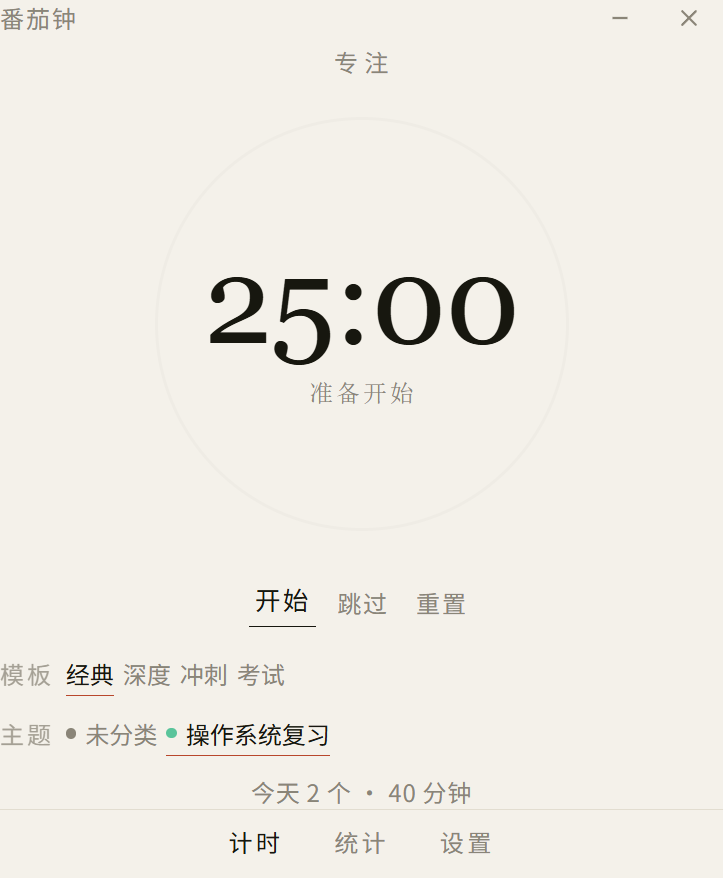
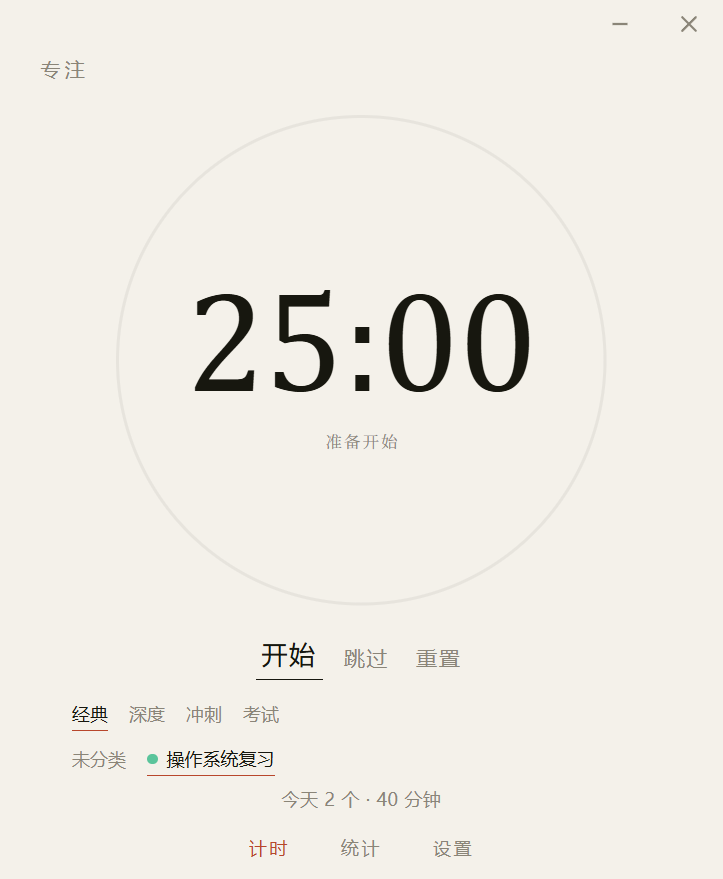
fix(ui): 纸感真机四个毛病（左右内边距、底轨 6%、标题栏压到 32px、垂直节奏收紧）+ 修 tokens.css 变量写在 :root 外的失效

diff --git a/src/renderer/styles/themes/paper.css b/src/renderer/styles/themes/paper.css
@@ -27,8 +27,9 @@
   --break: #4f7a5b;
   --warn: #8a6a1f;
   --on-phase: #f7f4ee;
-  /* 底轨：2% 墨色。淡到几乎看不见，但得在——0% 时环不能整个消失 */
-  --track: color-mix(in srgb, var(--ink) 2%, transparent);
+  /* 底轨：6% 墨色。2% 太淡了，浅底上等于没有——0% 时屏幕上只剩一个数字，
+     环整个消失，看着像坏了。6% 仍然极淡，但"环在那儿"看得出来。 */
+  --track: color-mix(in srgb, var(--ink) 6%, transparent);
   --hover: color-mix(in srgb, var(--ink) 6%, transparent);
   --active: color-mix(in srgb, var(--ink) 9%, transparent);
   /* 纸感没有光晕，底就是底 */
@@ -40,9 +41,15 @@
   --r-lg: 2px;
   --r-pill: 2px;
   --ring-stroke: 2px; /* 极细弧 */
+  /* 标题栏压到 32px：纸感不需要一条系统标题栏 */
+  --titlebar-h: 32px;
 
-  /* ---------- 字体：数字用衬线 ---------- */
-  --font-num: Georgia, 'Songti SC', 'SimSun', serif;
+  /* ---------- 字体：数字用衬线 ----------
+     用 Cambria 而不是 Georgia：Georgia 的数字默认是**旧式数字**（2 和 5 是 x 字高，
+     0 是全高），秒数一变整个数字就上下跳，跟"跳秒不抖"的要求冲突。
+     Cambria 默认就是等高数字，而且本来就是为屏幕设计的衬线体。 */
+  --font-num: Cambria, Georgia, 'Songti SC', serif;
+  --font-num-weight: 400;
 
   /* ---------- 效果：一律没有 ---------- */
   --shadow-card: none;
@@ -53,7 +60,62 @@
 
 /* ================= 结构覆盖：纸感的形态 ================= */
 
-/* 阶段标签：不靠颜色强调，靠字距 */
+/* 标题栏：去掉"番茄钟"三个字，只留拖拽区和最小化/关闭。
+   "这是番茄钟"用户不可能不知道，而下面居中的"专注"又在说阶段——重复。 */
+:root[data-theme='paper'] .titlebar__title {
+  display: none;
+}
+
+/* 那条 1px 分隔线去掉，让内容和导航连成一片纸 */
+:root[data-theme='paper'] .nav {
+  border-top: none;
+}
+
+/* 阶段标签：靠左，和下面模板/主题两行对齐成一条竖线 */
+:root[data-theme='paper'] .phase-label {
+  align-self: flex-start;
+  margin: 2px 0 8px;
+}
+
+/* 「模板」「主题」两个前缀：纸感里是多余的。
+   内容本身（经典/深度/冲刺、未分类/操作系统复习）已经看得出是两行不同的东西，
+   加个前缀反而像表单。先去掉，分不清再加回来。 */
+:root[data-theme='paper'] .presets__label,
+:root[data-theme='paper'] .topics__label {
+  display: none;
+}
+
+/* 主题行的小圆点：纸感的语言是"线"不是"点"。
+   选中项已经有砖红下划线，只有它保留一个点。 */
+:root[data-theme='paper'] .topics__dot {
+  display: none;
+}
+
+:root[data-theme='paper'] .topics__chip--on .topics__dot {
+  display: inline-block;
+}
+
+/* ---------- 垂直节奏 ----------
+   环下沿到按钮原来有 90px，中间空一块，环显得偏上。
+   现在：环按 --ring-gap 贴住这一格，下面那组（按钮 + 模板 + 主题 + 状态）
+   自己收紧，整体更靠近底部，环更居中。 */
+:root[data-theme='paper'] .controls {
+  margin-top: 6px;
+}
+
+:root[data-theme='paper'] .presets {
+  margin: 12px 0 0;
+}
+
+:root[data-theme='paper'] .topics {
+  margin: 8px 0 0;
+}
+
+:root[data-theme='paper'] .timer__bottom .status {
+  padding-top: 8px;
+}
+
+/* 阶段标签：纸感不靠颜色强调，靠字距 */
 :root[data-theme='paper'] .phase-label {
   color: var(--ink-2);
   letter-spacing: 0.26em;
@@ -140,15 +202,22 @@
   letter-spacing: 0.14em;
 }
 
-/* 环里的时间：衬线体，字重正常，不要细得发虚 */
+/* 环里的时间：衬线体，等高数字（不能是旧式数字，秒数一变就上下跳） */
 :root[data-theme='paper'] .ring__time {
   font-weight: 400;
   letter-spacing: -0.01em;
+  font-variant-numeric: lining-nums tabular-nums;
 }
 
 /* 环里的状态小标签也用衬线，像排版里的注脚 */
 :root[data-theme='paper'] .ring__hint {
-  font-family: Georgia, 'Songti SC', 'SimSun', serif;
+  font-family: Cambria, Georgia, 'Songti SC', serif;
   letter-spacing: 0.12em;
   text-indent: 0.12em;
+}
+
+/* 文字标签之间要多留一点气：胶囊去掉边框之后 6px 太挤 */
+:root[data-theme='paper'] .presets__inner,
+:root[data-theme='paper'] .topics__inner {
+  gap: 14px;
 }

diff --git a/src/renderer/styles/tokens.css b/src/renderer/styles/tokens.css
@@ -14,41 +14,55 @@
  * 不许散进组件。组件里只准用变量。
  *
  * 规矩：组件里不许硬编码色值；需要新颜色先在主题文件里加变量再引用。
+ *
+ * 注意：这些变量必须写在 :root 里。写在规则外面是**无效声明**，浏览器直接忽略，
+ * 表现是"读出来是空的"，用 var() 的地方全部退回默认值——
+ * 踩过一次：--titlebar-h 掉了，标题栏高度变成内容高度，看着像没写样式。
  */
 
-/* ---- 间距 ---- */
---pad-x: 24px;
---titlebar-h: 44px;
+:root {
+  /* ---- 间距 ---- */
+  --pad-x: 24px;
+  --titlebar-h: 44px;
 
-/* ---- 字号 ---- */
---fs-time: 92px; /* 大数字（环里的时间，实际字号跟环一起缩） */
---fs-label: 13px;
---fs-body: 14px;
---fs-small: 12px;
---fs-tiny: 11px; /* 环内的状态小标签 */
+  /* ---- 字号 ---- */
+  --fs-time: 92px; /* 大数字（环里的时间，实际字号跟环一起缩） */
+  --fs-label: 13px;
+  --fs-body: 14px;
+  --fs-small: 12px;
+  --fs-tiny: 11px; /* 环内的状态小标签 */
 
-/* ---- 字体 ----
-   正文字体三套一样；**数字字体在主题里**（衬线 / 超细 / 系统粗体）。 */
---font-ui: system-ui, 'Segoe UI', 'Microsoft YaHei', sans-serif;
+  /* ---- 字体 ----
+     正文字体三套一样；**数字字体在主题里**（衬线 / 超细 / 系统粗体）。 */
+  --font-ui: system-ui, 'Segoe UI', 'Microsoft YaHei', sans-serif;
 
-/* ---- 动效 ---- */
---ease: cubic-bezier(0.4, 0, 0.2, 1);
---dur-fast: 150ms;
---dur-base: 200ms;
---dur-slow: 250ms;
+  /* ---- 动效 ---- */
+  --ease: cubic-bezier(0.4, 0, 0.2, 1);
+  --dur-fast: 150ms;
+  --dur-base: 200ms;
+  --dur-slow: 250ms;
 
-/* ---- 横向滚动提示（模板条/主题条装不下时右边渐隐） ---- */
---fade-w: 28px;
-/* 遮罩用的实色（只看 alpha，不是界面上的颜色） */
---mask-solid: #000;
+  /* ---- 横向滚动提示（模板条/主题条装不下时右边渐隐） ---- */
+  --fade-w: 28px;
+  /* 遮罩用的实色（只看 alpha，不是界面上的颜色） */
+  --mask-solid: #000;
 
-/* ---- 阶段色（跟主题无关：专注用 --accent，休息用 --break） ----
-   派生色在这里算一次，三个主题共用。
-   注意：这三条必须作用在 html 根元素上——var() 替换用的是"声明所在元素"上的值，
-   如果写在子元素上，底轨会永远按默认的专注红算。 */
---phase: var(--accent);
---phase-soft: color-mix(in srgb, var(--phase) 16%, transparent);
---phase-faint: color-mix(in srgb, var(--phase) 7%, transparent);
+  /* ---- 圆环 ----
+     --ring-max：环的最大直径
+     --ring-mx：环离左右边缘至少留多少
+     --ring-gap：环离上下至少留多少（主题可以调：纸感要"更居中"，霓虹要"更贴边"） */
+  --ring-max: 420px;
+  --ring-mx: 56px;
+  --ring-gap: 10px;
+
+  /* ---- 阶段色（跟主题无关：专注用 --accent，休息用 --break） ----
+     派生色在这里算一次，三个主题共用。
+     注意：这三条必须作用在 html 根元素上——var() 替换用的是"声明所在元素"上的值，
+     如果写在子元素上，底轨会永远按默认的专注红算。 */
+  --phase: var(--accent);
+  --phase-soft: color-mix(in srgb, var(--phase) 16%, transparent);
+  --phase-faint: color-mix(in srgb, var(--phase) 7%, transparent);
+}
 
 html[data-phase='focus'] {
   --phase: var(--accent);

diff --git a/src/renderer/pages/Timer.tsx b/src/renderer/pages/Timer.tsx
@@ -45,15 +45,19 @@ export function Timer(): React.JSX.Element {
   // 描边宽度跟主题走：纸感 2px 细弧、霓虹 10px、系统感 8px。
   // 环的半径要让开描边，所以主题一变这里就得跟着变。
   const ringStroke = useThemeNumber('--ring-stroke', 8)
+  // 环的尺寸规则也是主题的一部分（最大直径 / 左右留白 / 上下留白）
+  const ringMax = useThemeNumber('--ring-max', 420)
+  const ringMx = useThemeNumber('--ring-mx', 56)
+  const ringGap = useThemeNumber('--ring-gap', 10)
 
   /**
    * 圆环按可用空间缩放，不能写死。
    * 之前写死 320px，用户把窗口缩到 500×589 之后环把下面全顶出去了，
    * 模板条压到导航栏上、状态行被挤没 —— 那是我的锅。
    *
-   * 规则：min(420, 可用宽 - 56, 可用高 × 0.94)，最小 200。
-   * 0.94 是量出来的：这一格里除圆环没别的东西，留 6% 余量给呼吸，
-   * 之前用 0.78 是"怕压到底下的东西"的保守值，结构改过之后可以放开。
+   * 规则：min(最大直径, 可用宽 - 左右留白, 可用高 - 上下留白)，最小 200。
+   * 上下留白是主题变量 --ring-gap：环在窗口里要"居中"，
+   * 留白给得太少会顶到底下的按钮，太多环就缩了。
    */
   useEffect(() => {
     const el = ringAreaRef.current
@@ -61,14 +65,14 @@ export function Timer(): React.JSX.Element {
     const measure = (): void => {
       const w = el.clientWidth
       const h = el.clientHeight
-      const next = Math.max(200, Math.min(420, w - 56, h * 0.94))
+      const next = Math.max(200, Math.min(ringMax, w - ringMx, h - 2 * ringGap))
       setRingSize(Math.round(next))
     }
     measure()
     const ro = new ResizeObserver(measure)
     ro.observe(el)
     return () => ro.disconnect()
-  }, [])
+  }, [ringMax, ringMx, ringGap])
 
   // 订阅主进程状态
   useEffect(() => {

diff --git a/src/renderer/styles/app.css b/src/renderer/styles/app.css
@@ -187,7 +187,8 @@ button {
 .ring__time {
   font-family: var(--font-num);
   font-size: var(--fs-time);
-  font-weight: 300;
+  /* 数字的字重也是主题的一部分：衬线 400 / 超细 100 / 系统粗体 600 */
+  font-weight: var(--font-num-weight, 300);
   line-height: 1;
   letter-spacing: -0.02em;
   /* 等宽数字：数字跳动时不会左右抖 */
@@ -726,6 +727,8 @@ button {
   gap: 8px;
   width: 100%;
   margin: 16px 0 2px;
+  /* 原来没有左右内边距，"模板"两个字的左边缘正好顶在窗口边界上，像被切了 */
+  padding-inline: var(--pad-x);
 }
 
 .presets__label,
@@ -910,6 +913,7 @@ button {
   gap: 8px;
   width: 100%;
   margin: 8px 0 2px;
+  padding-inline: var(--pad-x);
 }
 .topics__chip {
   display: flex;

diff --git a/src/renderer/styles/themes/neon.css b/src/renderer/styles/themes/neon.css
@@ -40,6 +40,7 @@
 
   /* ---------- 字体：超细无衬线 ---------- */
   --font-num: 'Segoe UI Variable Display', 'Segoe UI Light', 'Segoe UI', system-ui, sans-serif;
+  --font-num-weight: 100;
 
   /* ---------- 效果：光 ---------- */
   --shadow-card: 0 18px 48px rgba(0, 0, 0, 0.5);

diff --git a/src/renderer/styles/themes/ios.css b/src/renderer/styles/themes/ios.css
@@ -36,6 +36,7 @@
 
   /* ---------- 字体：系统粗体 ---------- */
   --font-num: 'Segoe UI Variable', 'SF Pro Display', system-ui, sans-serif;
+  --font-num-weight: 600;
 
   /* ---------- 效果：只有柔和阴影 ---------- */
   --shadow-card: 0 4px 24px rgba(0, 0, 0, 0.12);

diff --git a/docs/主题架构.md b/docs/主题架构.md
@@ -75,7 +75,37 @@
 `src/renderer/useTheme.ts` 的 `useThemeNumber()` 读主题里的
 `--ring-stroke`，并监听 `data-theme` / `data-mode` 的变化。
 
-## 七、怎么加一套新主题
+环的**尺寸规则**也是主题的一部分，三个变量：
+
+| 变量 | 意思 | 默认 |
+|---|---|---|
+| `--ring-max` | 环的最大直径 | 420 |
+| `--ring-mx` | 环离左右至少留多少 | 56 |
+| `--ring-gap` | 环离上下至少留多少 | 10 |
+
+`Timer.tsx` 里的算法：`直径 = min(最大, 可用宽 - 左右留白, 可用高 - 2×上下留白)`。
+原来写的是 `可用高 × 0.94`——那是个比例，环区一变高，留白就跟着变，
+"环离按钮多远"根本不可控。换成固定留白才量得准。
+
+## 七、纸感的结构覆盖（这一轮做的）
+
+都集中在 `styles/themes/paper.css`：
+
+- **标题栏**：去掉"番茄钟"三个字（信息重复），高度压到 32px（`--titlebar-h`），
+  底部导航那条 1px 分隔线也去掉——让它和内容连成一片纸。
+- **阶段标签**：靠左（`align-self: flex-start`），和下面模板/主题两行对齐成一条竖线。
+- **模板/主题两行**：左右加 24px 内边距（原来顶在窗口边界上，"模"字被切——
+  **这是 bug，三套主题都受影响，所以修在 app.css 里**）。
+- **前缀标签**「模板」「主题」：纸感里去掉，内容本身就能看出是两行不同的东西。
+- **主题行的小圆点**：去掉，只在选中项留一个——纸感的语言是"线"不是"点"。
+- **垂直节奏**：环按 `--ring-gap` 贴住这一格，下面那组（按钮 + 模板 + 主题 + 状态）
+  自己收紧，整体更靠近底部，环更居中。
+
+**数字字体用 Cambria 而不是 Georgia**：Georgia 的数字默认是**旧式数字**
+（2 和 5 是 x 字高、0 是全高），秒数一变整个数字上下跳，跟"跳秒不抖"冲突。
+Cambria 默认就是等高数字。数字的字重也跟着主题走（`--font-num-weight`）。
+
+## 八、怎么加一套新主题
 
 1. 新建 `styles/themes/xxx.css`，照着 `paper.css` 抄结构：
    颜色、形状、字体、效果、结构覆盖块。
@@ -84,7 +114,7 @@
 3. `src/renderer/main.tsx` 里 `import './styles/themes/xxx.css'`。
 4. `resolveUiTheme()` 里如果这套只支持一种深浅，在 `UI_THEMES` 的 `modes` 写上。
 
-## 八、现在做到哪了
+## 九、现在做到哪了
 
 | 步骤 | 状态 |
 |---|---|
@@ -95,3 +125,16 @@
 | 5 灵动岛跟随 | 未做 |
 
 **第 1 步没得到用户点头，不许做第 2 步。**
+
+## 十、踩过的坑
+
+1. **CSS 变量写在规则外面是无效声明**。我重写 `tokens.css` 时把常量写在
+   `:root {}` 外面，浏览器直接忽略——`getPropertyValue('--titlebar-h')`
+   读出来是空串，标题栏高度退回内容高度（23px），看着像"没写样式"。
+   **变量必须在 `:root` 里。**
+2. **旧式数字（old-style figures）会让秒数上下跳**。Georgia 的 2/5 是 x 字高、
+   0 是全高，衬线好看但不能用来显示计时。数字字体要选默认等高的（Cambria）。
+3. **环的"离上下多远"要用固定留白，不要用比例**。`高 × 0.94` 这种比例在
+   窗口高度变化时留白跟着变，"环和按钮之间应该隔多少"就没法定下来了。
+4. **GDI 抓桌面会误伤**：按窗口类名枚举去最小化"别的窗口"，会连同 Electron
+   窗口一起收掉（用户的 DS Bot 也被收起来过一次）。所以壁纸对照用合成，不动桌面。
